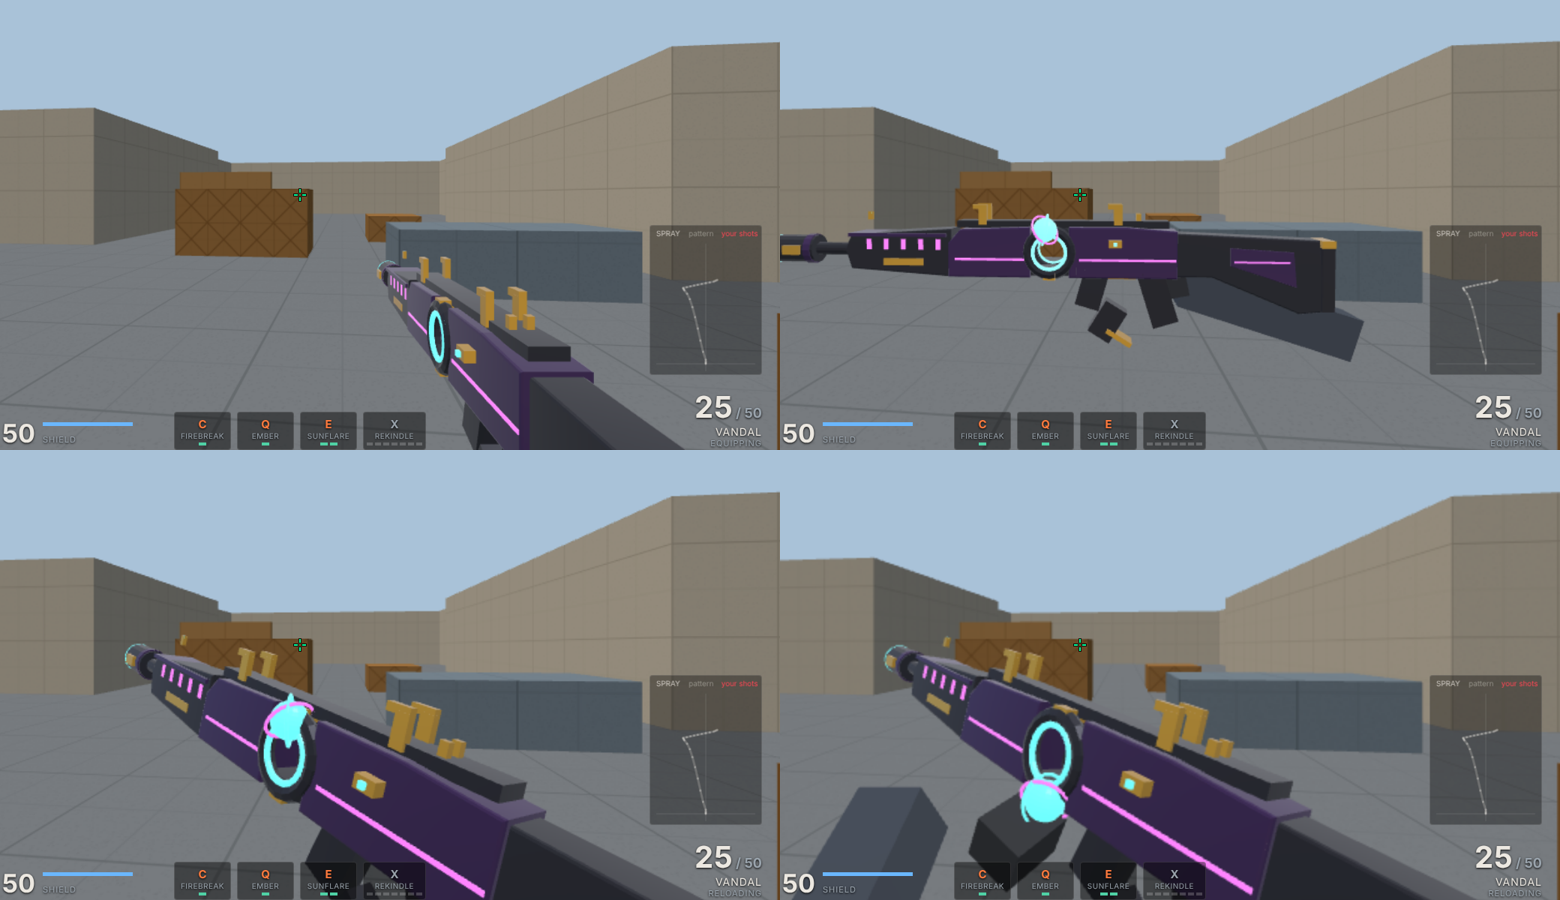
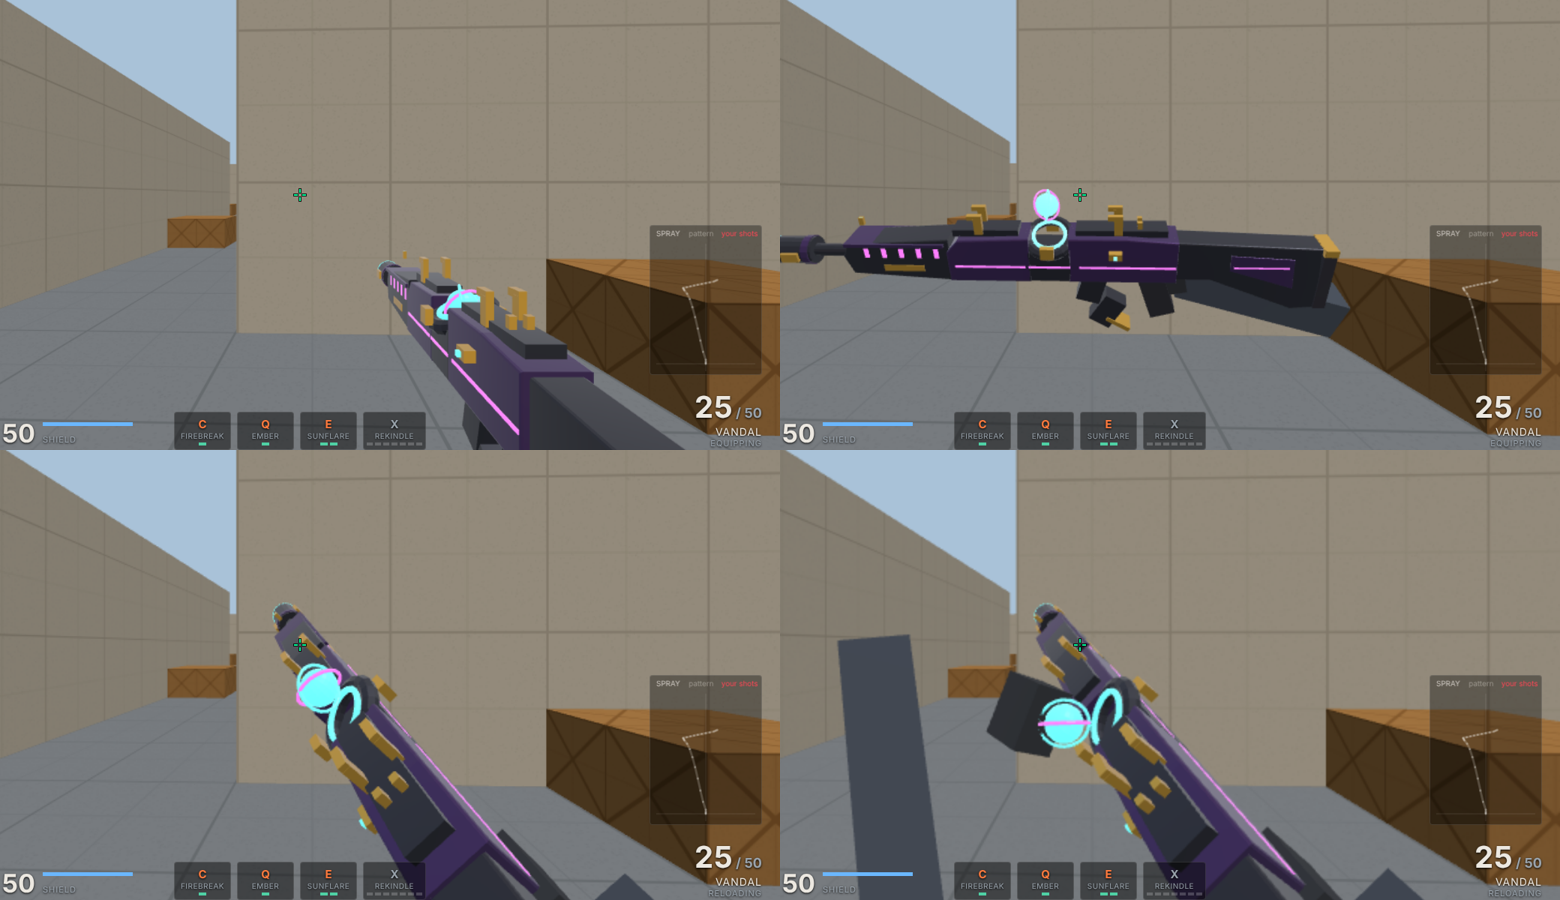
Orbital Vandal: put the reactor ring upright on top of the gun
The ring now opens upward (tipped a little toward the player) and the orb
rises straight up out of it on inspect; the reload rolls the top of the gun
toward you, pops the orb up and presses a fresh one in from above.

Claude-Session: https://claude.ai/code/session_012SZNW2q999ATXVRTM39JB9

diff --git a/js/models.js b/js/models.js
@@ -617,32 +617,32 @@ const DESIGNS = {
     return { muzzle: [0, 0.014, -0.615], sightY: 0.054 };
   },
 
-  // Orbital skin's Vandal: a heavier receiver split around a reactor ring (axis across the gun) that holds a
+  // Orbital skin's Vandal: a heavier receiver split around a reactor ring (open to the top) that holds a
   // glowing orb, part `orb`: the inspect floats it out and the reload pops it and seats a fresh one.
   vandalOrb(k) {
-    // Receiver, rear and front halves with the reactor bay between them (z -0.115 to -0.185).
+    // Receiver, rear and front halves with the reactor bay between them (z -0.115 to -0.185), a low cradle in it.
     k.prof([[0.06, -0.026], [0.06, 0.048], [-0.02, 0.054], [-0.115, 0.054], [-0.115, -0.026]], 0.058, 'body');
     k.prof([[-0.185, -0.026], [-0.185, 0.054], [-0.3, 0.05], [-0.32, 0.028], [-0.32, -0.026]], 0.058, 'body');
+    k.box(0.058, 0.056, 0.07, 'trim', 0, 0.002, -0.15);
     k.box(0.06, 0.004, 0.16, 'accent', 0, 0.002, -0.02);
     k.box(0.06, 0.004, 0.12, 'accent', 0, 0.002, -0.25);
-    k.box(0.04, 0.012, 0.09, 'trim', 0, -0.02, -0.15); // keel under the bay
-    // Top spine bridging the bay, gold clamps either side of the sight line.
-    k.box(0.034, 0.012, 0.36, 'trim', 0, 0.06, -0.13);
+    k.box(0.06, 0.004, 0.07, 'accent', 0, 0.002, -0.15);
+    // Top spine either side of the ring, gold clamps either side of the sight line.
+    k.box(0.034, 0.012, 0.15, 'trim', 0, 0.06, -0.03);
+    k.box(0.034, 0.012, 0.11, 'trim', 0, 0.06, -0.255);
     for (const z of [-0.035, -0.265]) for (const x of [-0.016, 0.016]) {
       k.box(0.008, 0.03, 0.014, 'metal', x, 0.074, z);
       k.box(0.008, 0.008, 0.024, 'metal', x, 0.09, z - 0.005);
     }
-    // Reactor ring: gunmetal housing, blue inner ring, gold latches top and bottom.
-    for (const x of [-0.025, 0.025]) {
-      k.tor(0.037, 0.009, 'trim', x, 0.014, -0.15, 0, PI / 2);
-      k.tor(0.028, 0.0035, 'glow', x * 1.22, 0.014, -0.15, 0, PI / 2);
-    }
-    k.box(0.062, 0.012, 0.02, 'metal', 0, 0.054, -0.15);
-    k.box(0.062, 0.012, 0.02, 'metal', 0, -0.026, -0.15);
-    k.part('orb', [0, 0.014, -0.15]);
-    k.ball(0.019, 'glow', 0, 0.014, -0.15);
-    k.tor(0.024, 0.0018, 'accent', 0, 0.014, -0.15, 0.6, 0.3);
-    k.tor(0.024, 0.0018, 'glow', 0, 0.014, -0.15, -0.5, 1.2);
+    // Reactor ring, open to the top of the cradle and tipped a little toward your side so you see into it:
+    // gunmetal housing, blue inner ring, gold latches either side.
+    k.tor(0.036, 0.009, 'trim', 0, 0.042, -0.15, PI / 2, 0.4);
+    k.tor(0.027, 0.0035, 'glow', -0.003, 0.05, -0.15, PI / 2, 0.4);
+    for (const x of [-0.044, 0.044]) k.box(0.01, 0.02, 0.022, 'metal', x, 0.04, -0.15);
+    k.part('orb', [0, 0.052, -0.15]);
+    k.ball(0.019, 'glow', 0, 0.052, -0.15);
+    k.tor(0.024, 0.0018, 'accent', 0, 0.052, -0.15, 0.6, 0.3);
+    k.tor(0.024, 0.0018, 'glow', 0, 0.052, -0.15, -0.5, 1.2);
     k.part(null);
     // Handguard: chunky shroud with neon vents and a gold name plate on each side.
     k.prof([[-0.32, -0.026], [-0.32, 0.05], [-0.49, 0.04], [-0.5, 0.018], [-0.49, -0.014]], 0.054, 'trim');
@@ -842,7 +842,7 @@ function offHands(g, parts, mats) {
     add(parts.mag, c.x - o.x - 0.01, b.min.y - o.y - 0.012, c.z - o.z + 0.01, [-0.06, -0.12, 0.13]);
   }
   if (parts.shell) add(parts.shell, 0.014, -0.016, 0.04, [0.06, -0.12, 0.16]);
-  if (parts.orb) add(parts.orb, -0.012, -0.036, 0.012, [-0.06, -0.12, 0.13]); // cups the fresh orb from below
+  if (parts.orb) add(parts.orb, -0.03, 0.022, 0.012, [-0.07, 0.04, 0.15]); // presses the fresh orb in from above-left
   return hands;
 }
 

diff --git a/js/reloadanim.js b/js/reloadanim.js
@@ -190,22 +190,22 @@ const STYLES = {
   },
 
   // Orbital Vandal: thumb the latch and the spent orb pops up out of the ring, spinning, and is flicked away
-  // (shrinking out); the off-hand brings a fresh one up from below and presses it in until it seats.
+  // (shrinking out); the off-hand brings a fresh one down from above and presses it in until it seats.
   orb(t, P) {
     const o = P.orb;
     if (o) {
       if (t < 0.4) {
         const pop = ss(t, 0.14, 0.24), fly = ss(t, 0.24, 0.38);
-        o.position.x -= 0.05 * pop + 0.12 * fly;
-        o.position.y += 0.05 * pop + 0.08 * fly;
+        o.position.x -= 0.1 * fly;
+        o.position.y += 0.06 * pop + 0.1 * fly;
         o.position.z += 0.06 * fly;
         o.rotation.y += 9 * (pop + fly);
         o.scale.setScalar(1 - 0.9 * fly);
         o.visible = fly < 0.99;
       } else {
         const k = 1 - ss(t, 0.42, 0.66);
-        o.position.x -= 0.08 * k;
-        o.position.y -= 0.09 * k;
+        o.position.x -= 0.07 * k;
+        o.position.y += 0.08 * k;
         o.position.z += 0.03 * k;
         o.rotation.y -= 3 * k;
         o.visible = t > 0.42;
@@ -275,9 +275,9 @@ export const RELOAD_TRACK = {
   phantom: [[0, Z], [0.1, { rx: 1.35, rz: 0.5, py: 0.07 }], [0.5, { rx: 1.35, rz: 0.5, py: 0.07 }], [0.68, { rx: 1.2, rz: -0.15, py: 0.06 }], [0.85, { rx: 1.0, rz: -0.1, py: 0.05 }], [1, Z]],
   // Vandal: rolled left and tipped for the mag swap, then vertical for the rack.
   vandal: [[0, Z], [0.12, { rx: 0.8, rz: 0.8, ry: 0.15, py: 0.04 }], [0.45, { rx: 0.8, rz: 0.85, ry: 0.2, px: -0.02, py: 0.04 }], [0.62, { rx: 1.3, rz: 0.3, py: 0.07 }], [0.85, { rx: 1.3, rz: 0.25, py: 0.07 }], [1, Z]],
-  // Orbital Vandal: swung left and rolled so the reactor ring faces you, held there through the swap, a
-  // little nod as the old orb pops and as the new one seats.
-  vandalOrb: [[0, Z], [0.12, { rx: 0.2, ry: 0.65, rz: -0.25, px: -0.04, py: 0.03 }], [0.4, { rx: 0.25, ry: 0.7, rz: -0.3, px: -0.05, py: 0.035 }], [0.7, { rx: 0.2, ry: 0.7, rz: -0.3, px: -0.05, py: 0.03 }], [0.84, { rx: 0.35, ry: 0.2, rz: 0.1, py: 0.02 }], [1, Z]],
+  // Orbital Vandal: tipped up and rolled so the top of the gun, and the reactor ring on it, faces you through
+  // the swap; a little nod as the old orb pops and as the new one seats.
+  vandalOrb: [[0, Z], [0.12, { rx: 0.3, ry: 0.2, rz: 0.75, px: -0.03, py: 0.03 }], [0.4, { rx: 0.35, ry: 0.25, rz: 0.8, px: -0.04, py: 0.035 }], [0.7, { rx: 0.3, ry: 0.25, rz: 0.8, px: -0.04, py: 0.03 }], [0.84, { rx: 0.35, ry: 0.1, rz: 0.2, py: 0.02 }], [1, Z]],
   warden: [[0, Z], [0.12, { rx: 0.9, rz: 0.6, py: 0.05 }], [0.6, { rx: 0.9, rz: 0.6, py: 0.05 }], [0.75, { rx: 1.2, rz: 0.2, py: 0.06 }], [1, Z]],
   // Operator: bolt up, tipped muzzle-up to pull the mag, dropped low-left to seat the new one, bolt home.
   operator: [[0, Z], [0.12, { rx: 0.05, rz: 0.1 }], [0.3, { rx: 0.9, rz: -0.6, ry: -0.1, py: 0.04 }], [0.5, { rx: 0.4, rz: 0.9, ry: 0.5, px: -0.12, py: -0.08 }], [0.7, { rx: 0.3, rz: 0.6, ry: 0.4, px: -0.08, py: -0.05 }], [0.85, { rx: 0.05, rz: 0.1 }], [1, Z]],

diff --git a/js/melee.js b/js/melee.js
@@ -30,15 +30,15 @@ export const GUN_INSPECT = {
 
 // Inspects that come with a gun model (model skins, see `models` in skins.js), by design id.
 export const MODEL_INSPECTS = {
-  // Orbital Vandal: the orb floats up out of the reactor ring and hovers, turning, while the gun is brought
+  // Orbital Vandal: the orb floats straight up out of the reactor ring and hovers, turning, while the gun is brought
   // round side-on and level in front of you so you see all of it; then the orb settles back in.
   vandalOrb: [{
     name: 'Orbit', dur: 4.2,
     track: [
       [0, ...Z],
       [0.6, -0.05, 0.03, -0.02, 0.06, 0.4, 0.2],
-      [1.4, -0.08, 0.06, -0.3, 0.02, 1.5, 0.0],
-      [3.0, -0.08, 0.065, -0.3, 0.04, 1.53, 0.0],
+      [1.4, -0.08, 0.06, -0.3, 0.02, 1.5, 0.45],
+      [3.0, -0.08, 0.065, -0.3, 0.04, 1.53, 0.45],
       [3.6, -0.06, 0.03, -0.03, 0.05, 0.4, 0.15],
       [4.2, ...Z],
     ],
@@ -46,11 +46,11 @@ export const MODEL_INSPECTS = {
       orb: [
         [0, ...Z, 1],
         [0.25, ...Z, 1],
-        L(1.0, -0.075, 0.035, 0, 0, TAU * 0.5, 0, 1),
-        L(1.6, -0.08, 0.05, 0, 0.3, TAU * 1.0, 0, 1),
-        L(2.2, -0.08, 0.04, 0, -0.2, TAU * 1.5, 0, 1),
-        L(2.8, -0.08, 0.052, 0, 0.2, TAU * 2.0, 0, 1),
-        L(3.3, -0.075, 0.04, 0, 0, TAU * 2.4, 0, 1),
+        L(1.0, -0.01, 0.05, 0, 0, TAU * 0.5, 0, 1),
+        L(1.6, -0.01, 0.065, 0, 0.3, TAU * 1.0, 0, 1),
+        L(2.2, -0.01, 0.055, 0, -0.2, TAU * 1.5, 0, 1),
+        L(2.8, -0.01, 0.067, 0, 0.2, TAU * 2.0, 0, 1),
+        L(3.3, -0.01, 0.05, 0, 0, TAU * 2.4, 0, 1),
         S(3.75, 0, 0, 0, 0, TAU * 2.5, 0, 1),
         [4.2, 0, 0, 0, 0, TAU * 2.5, 0, 1],
       ],

diff --git a/README.md b/README.md
@@ -106,7 +106,7 @@ presets, and other online players see your skins.
 **Model skins** replace the gun itself, not just its paint: a skin's `models` maps a weapon to its own design in
 `js/models.js`, which brings its own inspect (`MODEL_INSPECTS` in `js/melee.js`) and reload (keyed by the design in
 `js/reloadanim.js`), and the skin menu only offers it on those weapons. The first is **Orbital** (Vandal): a
-purple and gold receiver built around a reactor ring holding a glowing orb. Inspect floats the orb out of the
+purple and gold receiver with a reactor ring on top holding a glowing orb. Inspect floats the orb out of the
 ring while the gun is turned side-on in front of you; reload pops the spent orb out and seats a fresh one.
 
 **Melee types** (Skins → Melee): Tactical Knife, Hatchet, Katana, Karambit, Balisong, Kunai and Arc Blade.
